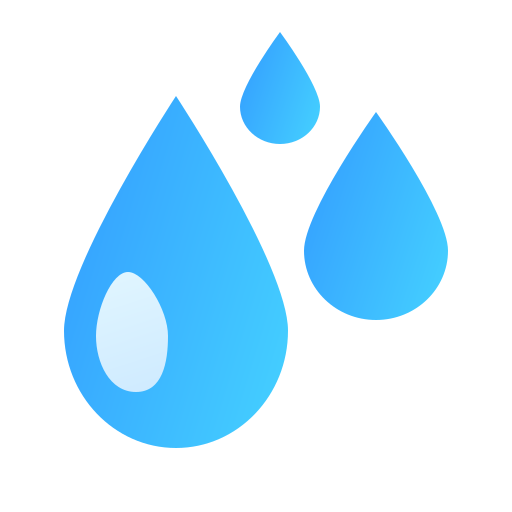
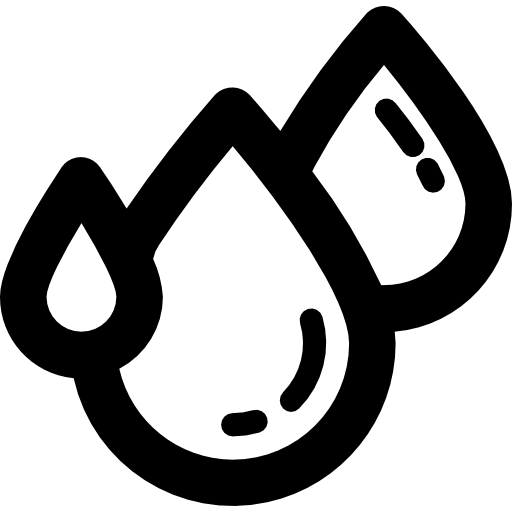
Changing properties

diff --git a/src/components/WeatherApp.jsx b/src/components/WeatherApp.jsx
@@ -3,7 +3,7 @@ import './WeatherApp.css'
 import clear_icon from '../images/clear_icon.png';
 import cloud_icon from '../images/cloud_icon.png';
 import drizzle_icon from '../images/drizzle_icon.png';
-import humidity_icon from '../images/clear_icon.png';
+import humidity_icon from '../images/humidity_icon.png';
 import rain_icon from '../images/rain_icon.png';
 import snow_icon from '../images/snow_icon.png';
 import wind_icon from '../images/wind_icon.png';
@@ -85,14 +85,14 @@ export const WeatherApp = () => {
 
         <div className="data-container">
             <div className="element">
-                <img src="" alt="" />
+                <img src={humidity_icon} alt="" />
                 <div className="data">
                     <div className="humidity-percent">64%</div>
                     <div className="text">Humidity</div>
                 </div>
             </div>
             <div className="element">
-                <img src="" alt="" />
+                <img src={wind_icon} alt="" />
                 <div className="data">
                     <div className="wind-rate">18 km/h</div>
                     <div className="text">Wind Speed</div>

diff --git a/src/components/WeatherApp.css b/src/components/WeatherApp.css
@@ -1,10 +1,10 @@
 .container{
-    width: 607px;
-    height: 829px;
+    width: 450px;
+    height: 630px;
     margin: auto;
-    margin-top: 75px;
+    margin-top: 50px;
     border-radius: 12px;
-    background-image: linear-gradient(180deg,#130754 0%,#3b2f80 10%);
+    background-image: linear-gradient(180deg,#a156198e 0%,#993405 40%);
 }
 .top-bar{
     display: flex;
@@ -14,8 +14,8 @@
 }
 .top-bar input{
     display: flex;
-    width: 362px;
-    height: 78px;
+    width: 300px;
+    height: 38px;
     background: #ebfffc;
     border: none;
     outline: none;
@@ -43,6 +43,10 @@
     display: flex;
     justify-content: center;
 }
+.weather-image img{
+    width: 200px;
+    height: auto;
+}
 .weather-temp{
     display: flex;
     justify-content: center;
@@ -63,6 +67,10 @@
     display: flex;
     justify-content: center;
 }
+.data-container img {
+    width: 50px; 
+    height: auto; 
+  }
 .element{
     margin: auto;
     display: flex;
